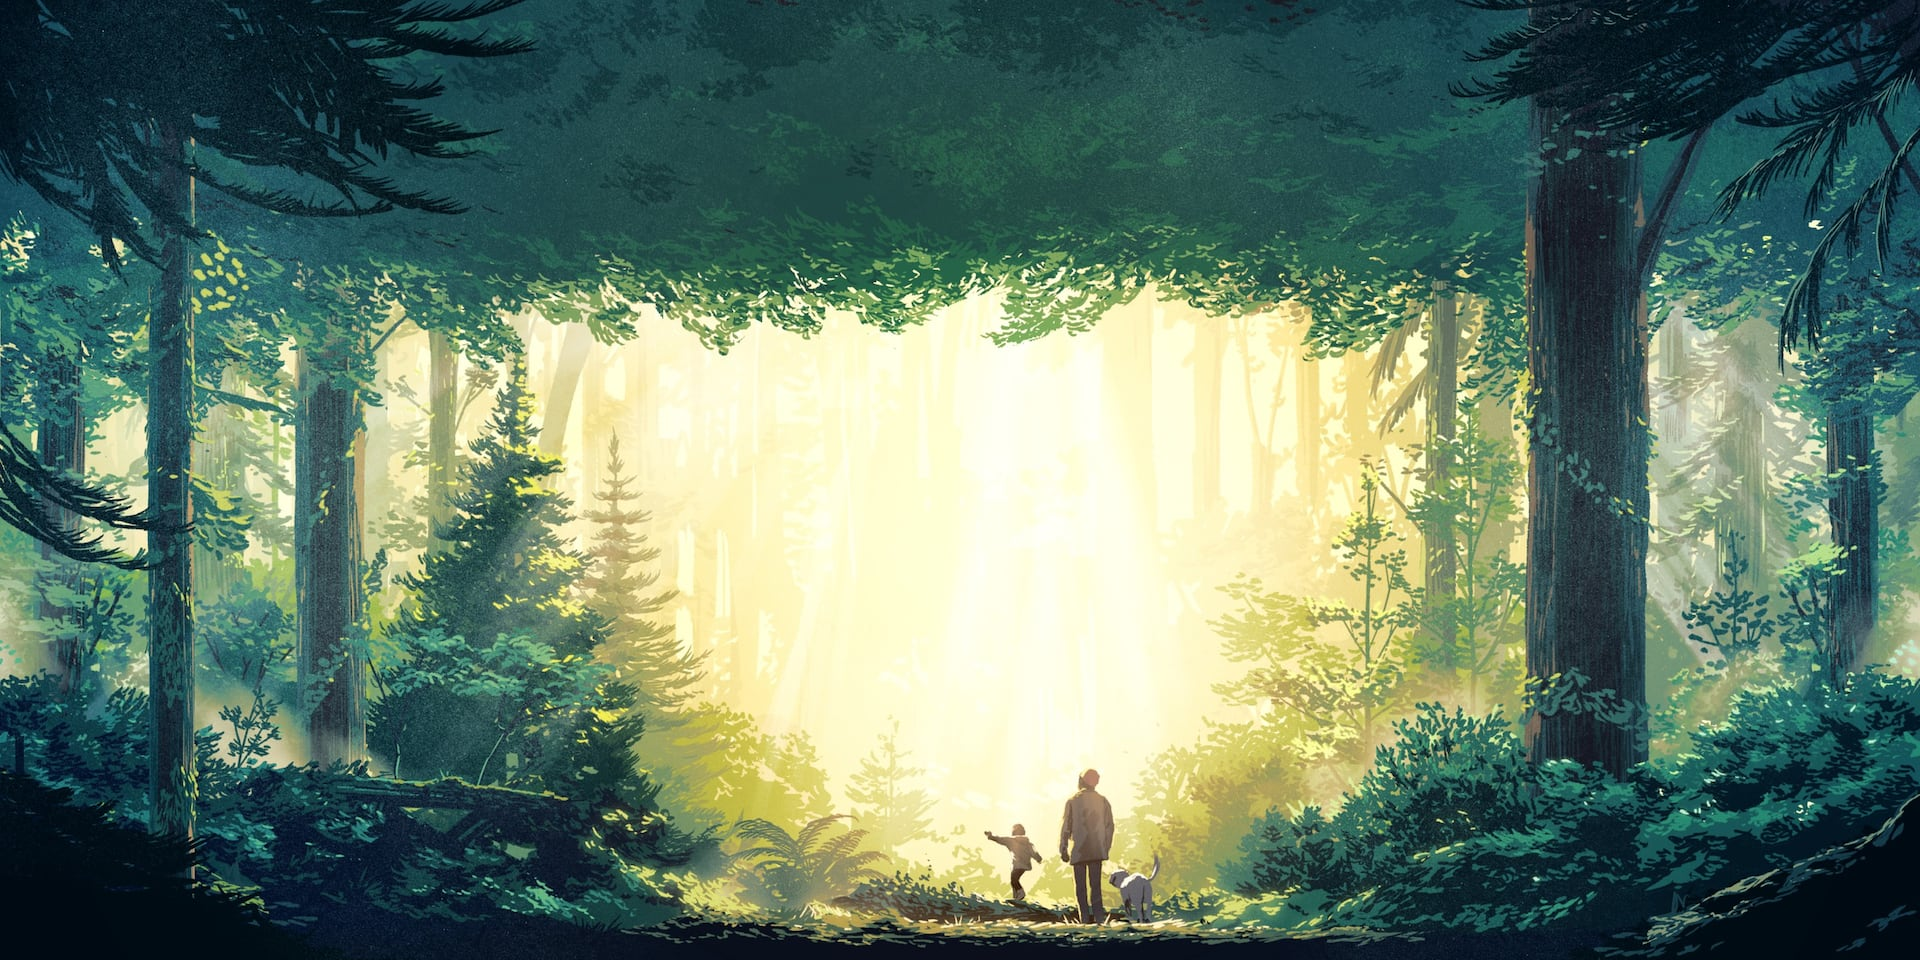
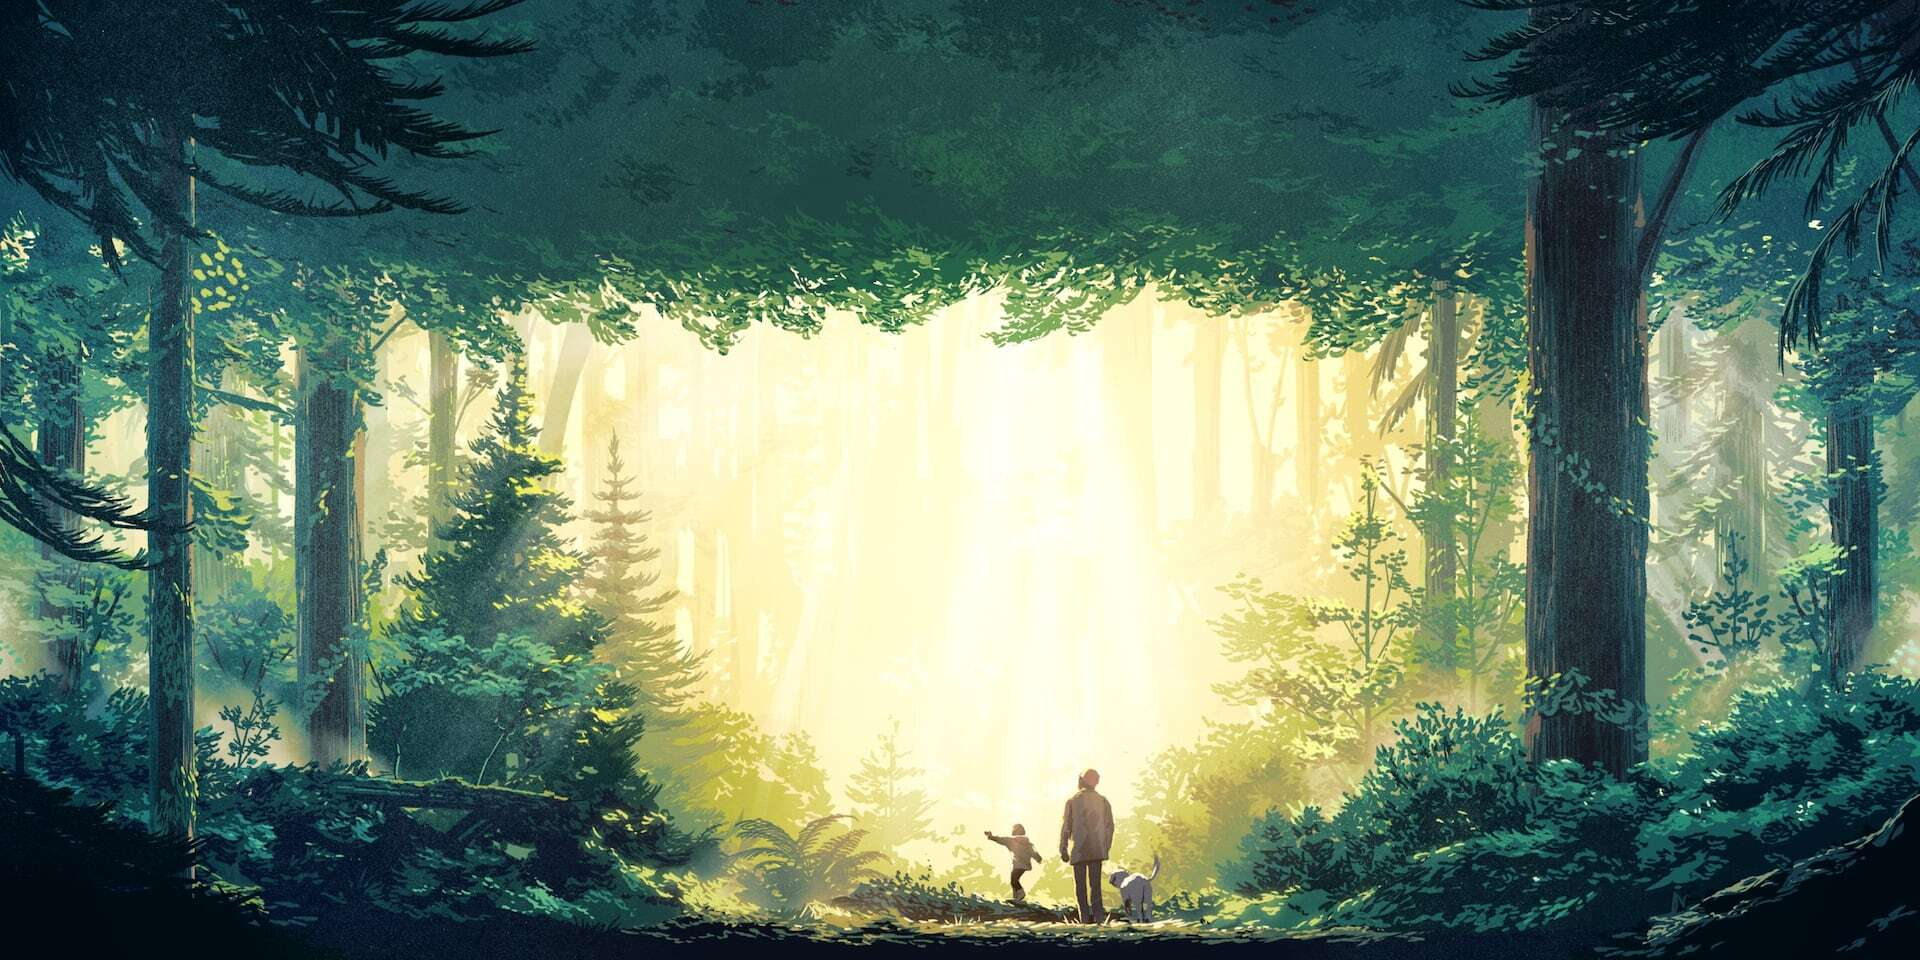
이제는 우리가 헤어져야 할 시간 다음에 또 만나요

diff --git a/project1/src/main/webapp/view.css b/project1/src/main/webapp/view.css
@@ -318,7 +318,7 @@ i.fas.fa-bars {
     position: relative;
     width: 100%;
     height: 600px;
-    background: url('image/Testimg/main.jpg') no-repeat center / cover;
+    background: url('image/Testimg/main.png') no-repeat center / cover;
     display: block;
     border: none;
 }
